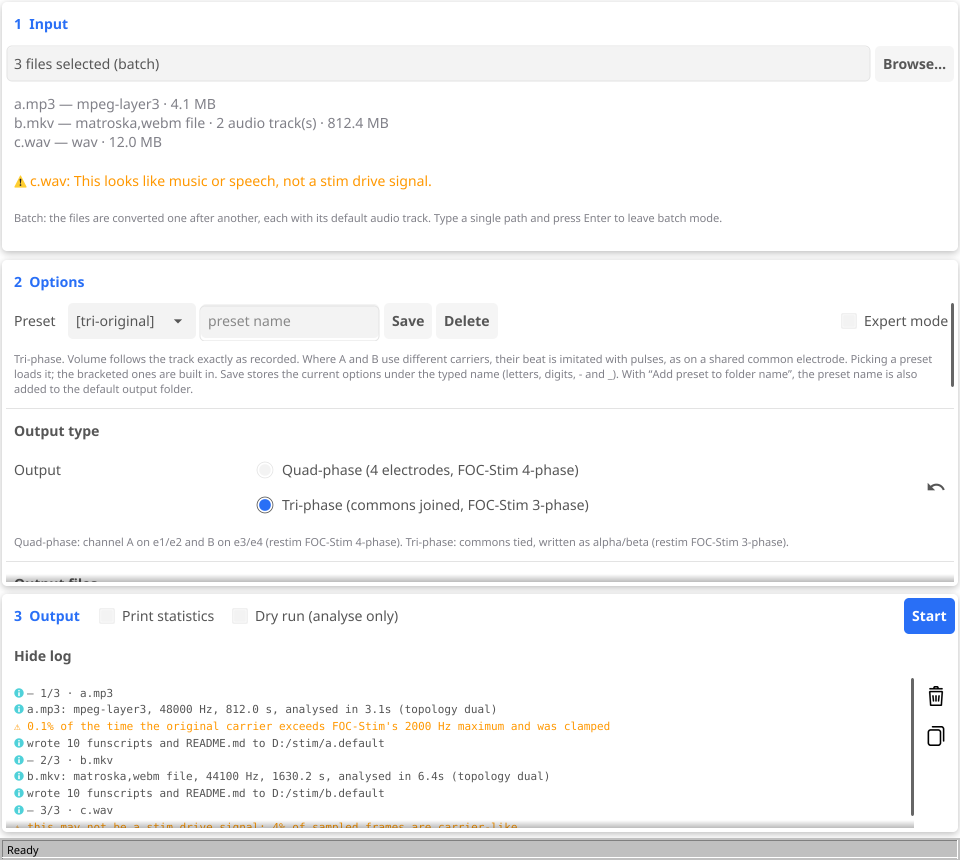
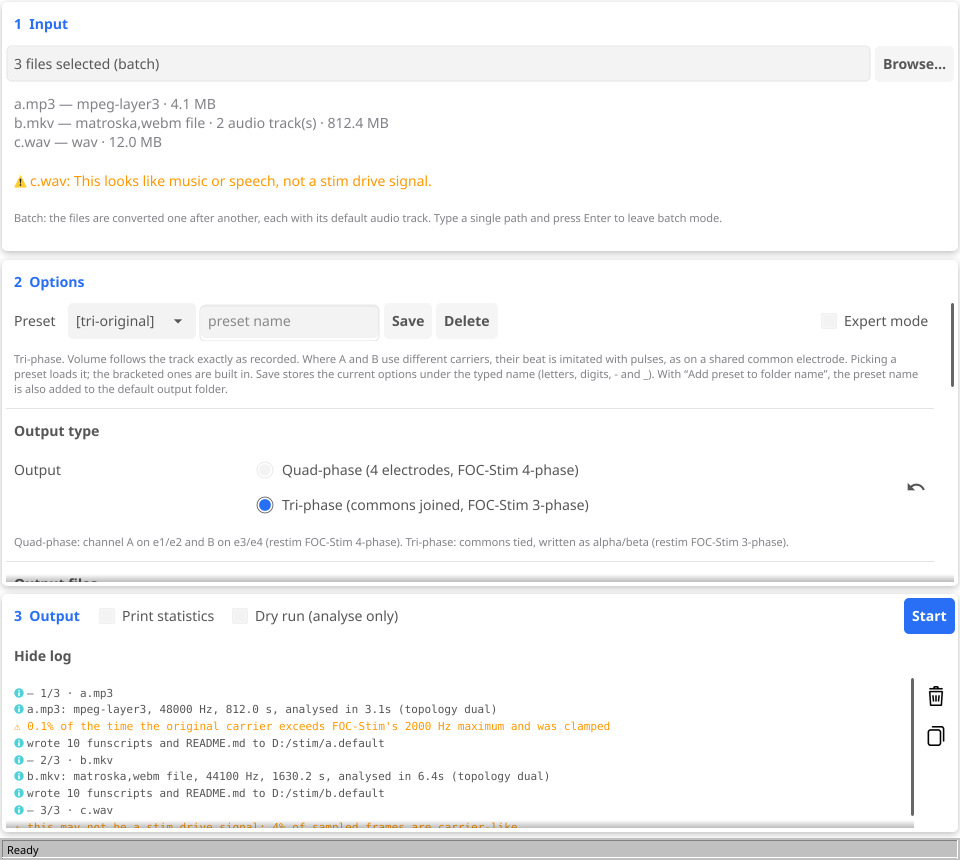
fix(gui): keep scroll content clear of the scroll bar
Fyne draws the scroll bar over the content; the options, log and About
scrolls now reserve its width on the right.

Changed region(s): [[0.0, 0.3628, 1.0, 0.4535], [0.9375, 0.5442, 0.9688, 0.5744]]

diff --git a/internal/gui/layout.go b/internal/gui/layout.go
@@ -302,7 +302,7 @@ func (u *ui) optionsSection() fyne.CanvasObject {
 		items = append(items, muted("More settings (mixing, circuit model, funscript ranges) are available in expert mode."))
 	}
 	items = append(items, u.dynText(u.optErr.Get, widget.DangerImportance))
-	u.optScroll = container.NewVScroll(container.NewVBox(items...))
+	u.optScroll = vscroll(container.NewVBox(items...))
 	return widget.NewCard("", "", container.NewBorder(heading("2  Options"), nil, nil, nil, u.optScroll))
 }
 
@@ -513,7 +513,7 @@ func (u *ui) logSection() fyne.CanvasObject {
 func (u *ui) console() fyne.CanvasObject {
 	rt := widget.NewRichText()
 	rt.Wrapping = fyne.TextWrapWord
-	scroll := container.NewVScroll(rt)
+	scroll := vscroll(rt)
 	scroll.SetMinSize(fyne.NewSize(0, 150))
 	sym := consoleSymbols()
 	shown := -1
@@ -540,4 +540,12 @@ func (u *ui) console() fyne.CanvasObject {
 		scroll.ScrollToBottom()
 	})
 	return scroll
+}
+
+// vscroll is a vertical scroll whose content leaves room on the right for
+// the scroll bar, which Fyne draws over the content.
+func vscroll(o fyne.CanvasObject) *container.Scroll {
+	gap := canvas.NewRectangle(color.Transparent)
+	gap.SetMinSize(fyne.NewSize(theme.ScrollBarSize()+theme.Padding(), 0))
+	return container.NewVScroll(container.NewBorder(nil, nil, nil, gap, o))
 }

diff --git a/internal/gui/about.go b/internal/gui/about.go
@@ -195,7 +195,7 @@ func (u *ui) aboutPage() fyne.CanvasObject {
 		heading("About stimconv"),
 		container.NewHBox(layout.NewSpacer(), widget.NewButton("Copy", func() { u.copyText(txt, "attributions") }), back),
 		nil, nil,
-		container.NewVScroll(body),
+		vscroll(body),
 	)
 }
 
